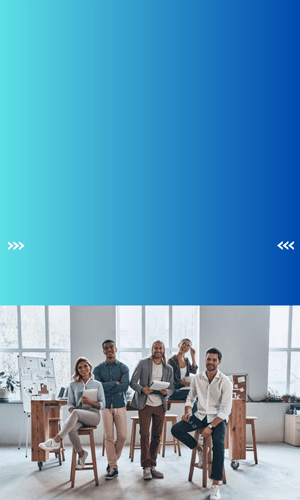
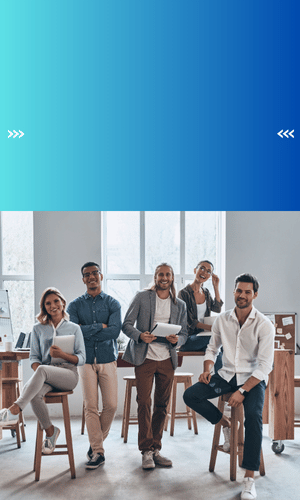
creditmax circle image change new

diff --git a/src/pages/PartnerProgram.tsx b/src/pages/PartnerProgram.tsx
@@ -1,9 +1,7 @@
-// src/pages/PartnerProgram.tsx
-
 import React from "react";
 import { CheckCircle, ArrowRight, Info } from "lucide-react";
-import desktopBanner from "../data/banner_desktop.png"; // Update paths if needed
-import mobileBanner from "../data/banner_mobile.png";
+import desktopBanner from "../data/banner_desktop.png"; // Your desktop image path
+import mobileBanner from "../data/banner_mobile.png";   // Your mobile image path
 
 export default function PartnerProgram() {
   return (
@@ -24,8 +22,8 @@ export default function PartnerProgram() {
           className="block md:hidden w-full h-96 object-cover rounded-b-xl"
           loading="lazy"
         />
-        {/* Overlay Content with increased top padding to bring text down */}
-        <div className="absolute inset-0 flex flex-col justify-start items-center bg-black bg-opacity-30 rounded-b-xl px-4 pt-20 pb-4 text-center">
+        {/* Overlay Content (higher up on mobile, lower on desktop) */}
+        <div className="absolute inset-0 flex flex-col justify-start items-center bg-black bg-opacity-30 rounded-b-xl px-4 pt-8 md:pt-20 pb-4 text-center">
           <h1 className="text-2xl sm:text-3xl md:text-5xl font-extrabold text-white mb-3 drop-shadow-lg">
             CreditMax Circle
           </h1>
@@ -47,7 +45,7 @@ export default function PartnerProgram() {
           About CreditMax Circle
         </h2>
         <p className="text-lg text-black text-center mb-6">
-          <span className="font-bold">CreditMax Circle</span> is a community built for individuals and businesses to grow through trusted partnerships.  
+          <span className="font-bold">CreditMax Circle</span> is a community built for individuals and businesses to grow through trusted partnerships.
           Earn attractive commissions by referring clients to CreditMax loans. Whether you’re a professional, consultant, or entrepreneur, CreditMax Circle empowers you to create new earning streams while helping others access the best loans.
         </p>
       </section>
